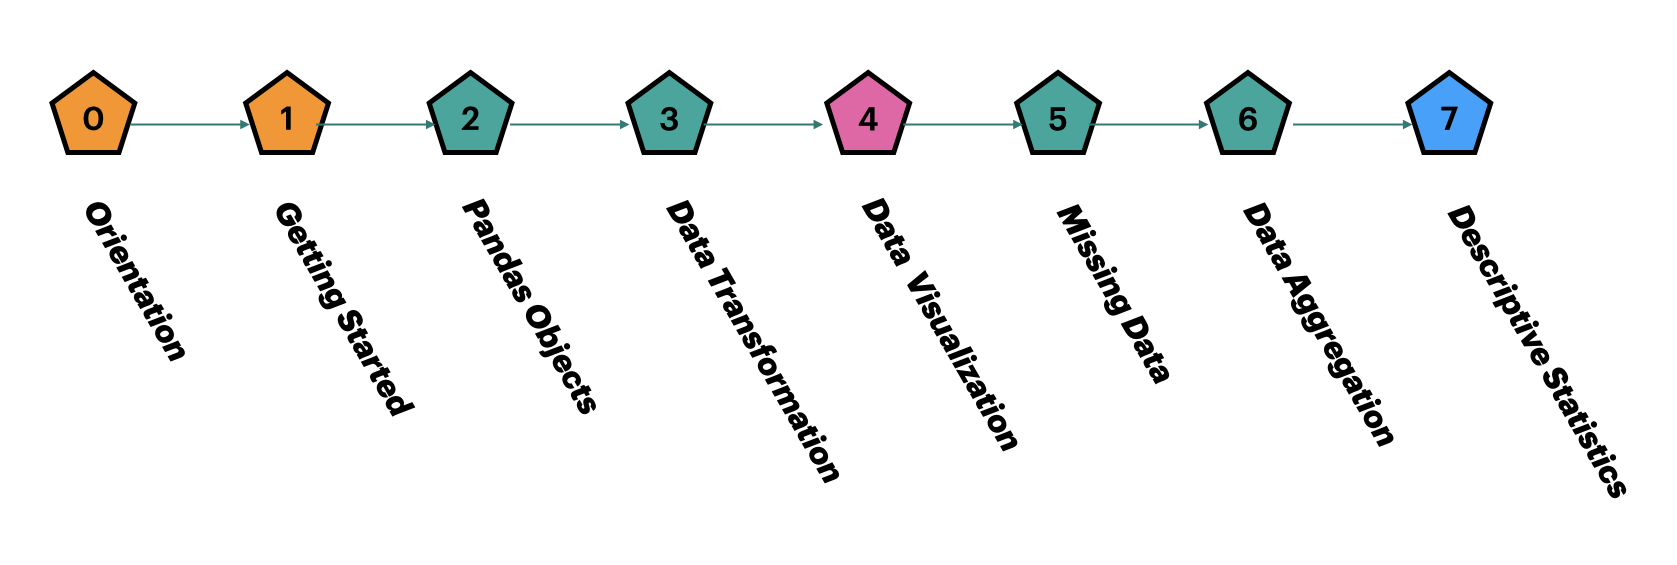
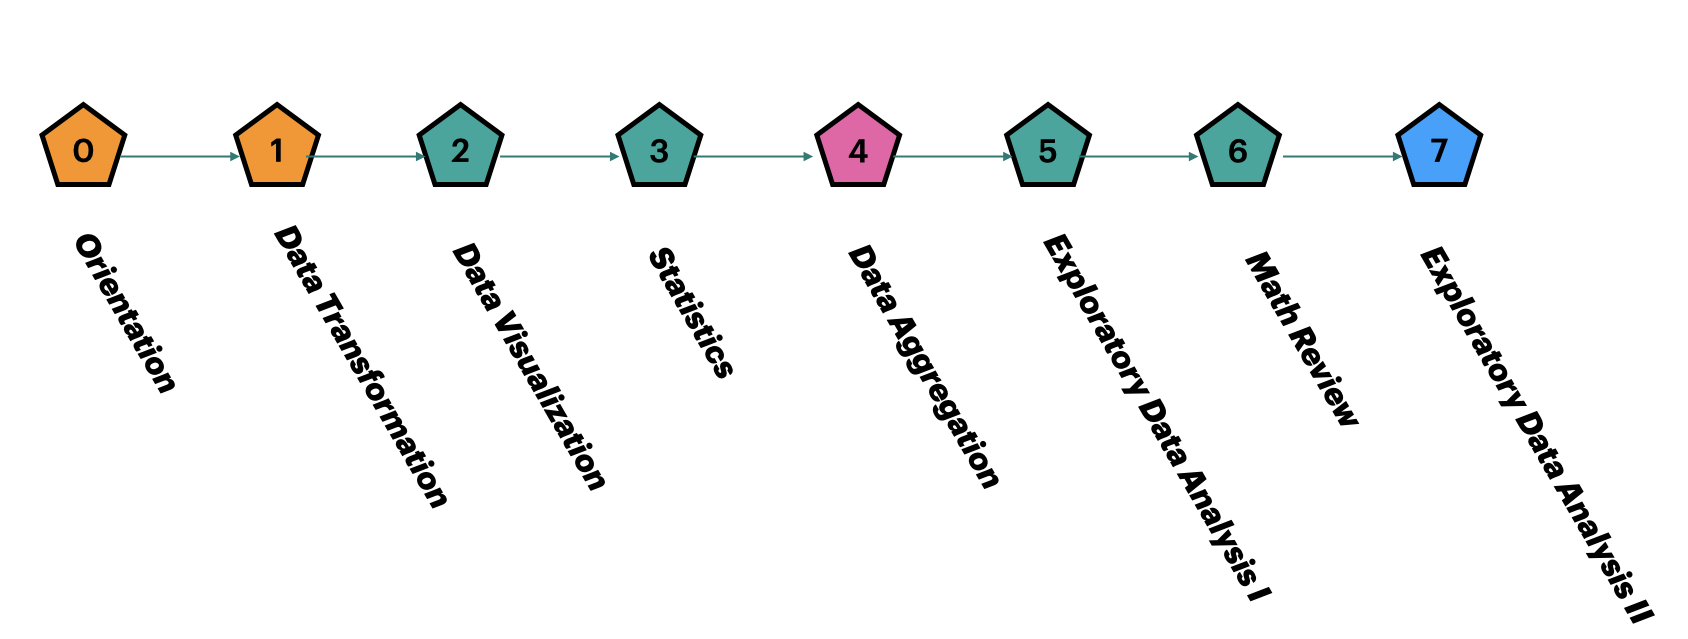
Update documentation

diff --git a/searchindex.js b/searchindex.js
@@ -1,1 +1,1 @@
-Search.setIndex({docnames:["curriculum","faq","intro","learningdesign","tools","videos"],envversion:{"sphinx.domains.c":2,"sphinx.domains.changeset":1,"sphinx.domains.citation":1,"sphinx.domains.cpp":4,"sphinx.domains.index":1,"sphinx.domains.javascript":2,"sphinx.domains.math":2,"sphinx.domains.python":3,"sphinx.domains.rst":2,"sphinx.domains.std":2,"sphinx.ext.intersphinx":1,"sphinxcontrib.bibtex":7,sphinx:56},filenames:["curriculum.md","faq.md","intro.md","learningdesign.md","tools.md","videos.md"],objects:{},objnames:{},objtypes:{},terms:{"0":0,"00":2,"1":[0,5],"14th":2,"2":[0,5],"24":[1,2],"3":[0,1],"30":2,"30th":2,"4":0,"40":1,"5":[0,1],"50":1,"6":0,"7":[0,2],"abstract":2,"boolean":[],"do":[1,3],"float":[],"function":[],"int":[],"new":[1,2],"short":[1,3],"while":[],A:1,As:[],At:1,But:1,If:[1,2],In:0,It:2,No:1,The:[0,1,2,3],There:1,To:[1,2],Will:1,abil:[],about:2,absolut:[1,2],access:[1,2],accompani:[1,3],account:[1,2],activ:[1,2,3],address:1,after:[1,2],aggreg:[0,2],all:[1,2],allow:[],also:1,amount:1,an:[0,1,2,3],analysi:2,ani:1,anonym:1,approxim:[1,2],ar:[0,1,2,3],arrai:[],arrang:0,artifici:[],ask:2,assign:1,athlet:[],atom:[],automat:3,avail:1,averag:[],b:2,base:[1,2,3],basic:[],becaus:[],begin:[2,3],beginn:[1,2],bore:[],borrow:0,bottom:1,branch:[],brief:[],briefli:[],busi:[1,2],button:2,can:[1,2],career:2,certif:1,challeng:[1,3],check:[],choos:1,click:[1,2],close:2,code:[2,3],collabor:3,collect:[],com:[1,2],combin:[1,2],commit:[1,2],common:0,commun:1,complet:1,complex:3,comput:2,concept:3,condit:[],consist:[0,1],consult:2,contain:2,cost:1,coupl:[],cours:[0,1],creat:[1,2],critic:[],curriculum:2,data:[0,1,2],datafram:0,depend:[],descript:0,design:[1,2],develop:3,dictionari:[],differ:1,difficulti:2,disclos:1,doe:1,door:0,dplyr:0,dure:0,each:[1,3],edt:2,effici:[1,2],elementari:[],els:[],email:[1,2],end:[1,3],enrol:1,environ:0,especi:2,essenti:0,establish:1,event:2,excel:[],execut:[],exercis:[1,3],expect:[0,1],explantori:3,explor:[],exploratori:2,extend:[],faq:2,feedback:3,few:[],filter:0,first:[],five:3,formal:1,free:[1,2],frequent:2,fridai:2,from:1,gener:[],get:[0,1,2,5],gmail:[1,2],go:[0,1],goal:[1,2],good:[],grade:[1,3],group:3,groupbi:0,ha:1,habit:[],har:[],have:[1,2],help:[],hierarch:0,honor:[],hour:[1,2],how:1,howev:1,human:[],i:[0,1,2],identifi:[0,1],ii:2,includ:[0,2],index:0,inform:1,inher:3,inquir:[],instruct:[1,2],instructor:[1,3],intellig:[],interact:[1,2,3],interest:2,introduc:0,introduct:[],issu:[],iter:[],jupyt:0,kei:[],languag:[],learn:[1,2],least:2,level:[0,1,2],librari:0,like:1,limit:[],list:[],live:[1,2,3],log:2,login:2,longer:3,look:0,loop:[],machin:2,made:1,main:[],materi:[1,2],math:2,matplotlib:0,meant:3,meetup:2,member:[],method:[],methodolog:0,mind:1,minut:[2,3],miss:0,mission:[],mlearnfab:[1,2],moodl:1,most:[1,2,3],much:1,must:1,mutat:0,my:1,name:1,natur:[],nbsp:0,need:[1,2],notebook:0,number:[],object:[0,5],oct13:2,oct20:2,oct27:2,oct6:2,offer:[1,2],onc:2,onli:[],onlin:[1,2],open:0,oper:[],opportun:1,optim:1,orient:[0,2],other:1,our:[1,2],out:[],over:0,overview:[0,2],own:1,pace:[1,2],page:2,panda:0,part:2,particip:1,path:1,peer:1,per:2,person:1,pii:1,pivot:0,place:1,pleas:2,pledg:[],pm:2,power:2,practic:[1,3],present:3,princip:0,principl:[1,2,3],problem:3,process:[],profession:[1,2],program:[1,2],python:[0,2],pythonfab:3,q:1,queetion:[],question:2,quick:3,quickli:[1,2],r:0,receiv:[1,2],record:1,regist:2,reinforc:3,remain:1,repeat:1,repetit:[],resourc:[1,2],retain:1,reus:[],review:2,rich:[],room:3,routin:[],s:0,scienc:[0,1,2,3],seaborn:0,seat:[],select:0,self:[1,2],sep15:2,sep22:2,sep29:2,sep8:2,septemb:2,sequenti:[],seri:[0,2],session:[0,1,2,3],set:[0,3],seven:1,sever:1,share:1,should:1,show:1,sign:[],simpl:5,simpli:2,site:1,skill:[1,2,3],solv:3,some:[1,3],specif:1,spend:2,standard:[],start:[0,1,2,5],state:[],statement:[],statist:[0,2],strictli:[],string:[],structur:0,studi:0,summar:0,support:1,system:[],t:1,tabl:0,take:1,teach:[1,2],team:3,techniqu:0,test:1,text:3,than:3,thei:3,therefor:1,thi:1,think:2,those:2,through:[],thu:2,thursdai:2,time:1,tool:0,train:[],transform:[0,2],treat:0,tue:2,tupl:[],turn:0,two:0,type:[],ultim:[],unit:[1,3,5],unlik:[1,2],us:0,usual:3,vari:[],varieti:[],variou:0,video:[1,3],view:[1,3],visual:[0,2],vocabulari:0,wa:2,wai:1,want:[1,2],we:[0,1,3],web:1,websit:2,week:[1,2],what:[1,2],which:2,who:[1,2],wish:2,within:1,won:1,workhors:0,write:[],you:[0,1,2],your:1,yourself:[],youtub:1},titles:["<font color=\"maroon\">Curriculum</font>","<font color=\"maroon\">Frequently Asked Questions</font>","<font color=\"maroon\">Welcome</font>","<font color=\"maroon\">Learning Design</font>","<font color=\"maroon\">Tools</font>","<font color=\"maroon\">Videos</font>"],titleterms:{"2022":2,ask:1,blue:0,color:[0,1,2,3,4,5],cours:2,curriculum:0,design:3,fall:2,font:[0,1,2,3,4,5],frequent:1,learn:3,major:0,maroon:[0,1,2,3,4,5],moodl:2,question:1,registr:2,schedul:2,site:2,tool:4,unit:0,video:5,web:2,welcom:2}})
+Search.setIndex({docnames:["curriculum","faq","intro","learningdesign","tools","videos"],envversion:{"sphinx.domains.c":2,"sphinx.domains.changeset":1,"sphinx.domains.citation":1,"sphinx.domains.cpp":4,"sphinx.domains.index":1,"sphinx.domains.javascript":2,"sphinx.domains.math":2,"sphinx.domains.python":3,"sphinx.domains.rst":2,"sphinx.domains.std":2,"sphinx.ext.intersphinx":1,"sphinxcontrib.bibtex":7,sphinx:56},filenames:["curriculum.md","faq.md","intro.md","learningdesign.md","tools.md","videos.md"],objects:{},objnames:{},objtypes:{},terms:{"0":0,"00":2,"1":[0,5],"14th":2,"2":[0,5],"24":[1,2],"3":[0,1],"30":2,"30th":2,"4":0,"40":1,"5":[0,1],"50":1,"6":0,"7":[0,2],"abstract":2,"boolean":[],"do":[1,3],"float":[],"function":[],"int":[],"new":[1,2],"short":[1,3],"while":[],A:1,As:[],At:1,But:1,If:[1,2],In:0,It:2,No:1,The:[0,1,2,3],There:1,To:[1,2],Will:1,abil:[],about:2,absolut:[1,2],access:[1,2],accompani:[1,3],account:[1,2],activ:[1,2,3],address:1,after:[1,2],aggreg:[0,2],all:[1,2],allow:[],also:1,amount:1,an:[0,1,2,3],analysi:[0,2],ani:1,anonym:1,approxim:[1,2],ar:[0,1,2,3],arrai:[],arrang:0,artifici:[],ask:2,assign:1,athlet:[],atom:[],automat:3,avail:1,averag:[],b:2,base:[1,2,3],basic:[],becaus:[],begin:[2,3],beginn:[1,2],bore:[],borrow:0,bottom:1,branch:[],brief:[],briefli:[],busi:[1,2],button:2,can:[1,2],career:2,certif:1,challeng:[1,3],check:[],choos:1,click:[1,2],close:2,code:[2,3],collabor:3,collect:[],com:[1,2],combin:[1,2],commit:[1,2],common:0,commun:1,complet:1,complex:3,comput:2,concept:3,condit:[],consist:[0,1],consult:2,contain:2,cost:1,coupl:[],cours:1,creat:[1,2],critic:[],curriculum:2,data:[0,1,2],datafram:0,depend:[],descript:[],design:[1,2],develop:3,dictionari:[],differ:1,difficulti:2,disclos:1,doe:1,door:0,dplyr:0,dure:[],each:[1,3],edt:2,effici:[1,2],elementari:[],els:[],email:[1,2],end:[1,3],enrol:1,environ:[],especi:2,essenti:0,establish:1,event:2,excel:[],execut:[],exercis:[1,3],expect:[0,1],explantori:3,explor:[],exploratori:[0,2],extend:[],faq:2,feedback:3,few:[],filter:0,first:[],five:3,formal:1,free:[1,2],frequent:2,fridai:2,from:1,gener:[],get:[1,5],gmail:[1,2],go:[0,1],goal:[1,2],good:[],grade:[1,3],group:3,groupbi:0,ha:1,habit:[],har:[],have:[1,2],help:[],hierarch:0,honor:[],hour:[1,2],how:1,howev:1,human:[],i:[0,1,2],identifi:1,ii:[0,2],includ:[0,2],index:0,inform:1,inher:3,inquir:[],instruct:[1,2],instructor:[1,3],intellig:[],interact:[1,2,3],interest:2,introduc:0,introduct:[],issu:[],iter:[],jupyt:[],kei:[],languag:[],learn:[1,2],least:2,level:[0,1,2],librari:0,like:1,limit:[],list:[],live:[1,2,3],log:2,login:2,longer:3,look:0,loop:[],machin:2,made:1,main:[],materi:[1,2],math:[0,2],matplotlib:0,meant:3,meetup:2,member:[],method:[],methodolog:0,mind:1,minut:[2,3],miss:[],mission:[],mlearnfab:[1,2],moodl:1,most:[1,2,3],much:1,must:1,mutat:0,my:1,name:1,natur:[],nbsp:0,need:[1,2],notebook:[],number:[],object:5,oct13:2,oct20:2,oct27:2,oct6:2,offer:[1,2],onc:2,onli:[],onlin:[1,2],open:0,oper:[],opportun:1,optim:1,orient:[0,2],other:1,our:[1,2],out:[],over:0,overview:[0,2],own:1,pace:[1,2],page:2,panda:0,part:2,particip:1,path:1,peer:1,per:2,person:1,pii:1,pivot:0,place:1,pleas:2,pledg:[],pm:2,power:2,practic:[1,3],present:3,princip:0,principl:[1,2,3],problem:3,process:[],profession:[1,2],program:[1,2],python:[0,2],pythonfab:3,q:1,queetion:[],question:2,quick:3,quickli:[1,2],r:0,receiv:[1,2],record:1,regist:2,reinforc:3,remain:1,repeat:1,repetit:[],resourc:[1,2],retain:1,reus:[],review:[0,2],rich:[],room:3,routin:[],s:0,scienc:[0,1,2,3],seaborn:0,seat:[],select:0,self:[1,2],sep15:2,sep22:2,sep29:2,sep8:2,septemb:2,sequenti:[],seri:2,session:[0,1,2,3],set:[0,3],seven:1,sever:1,share:1,should:1,show:1,sign:[],simpl:5,simpli:2,site:1,skill:[1,2,3],solv:3,some:[1,3],specif:1,spend:2,standard:[],start:[1,5],state:[],statement:[],statist:[0,2],strictli:[],string:[],structur:[],studi:0,summar:0,support:1,system:[],t:1,tabl:0,take:1,teach:[1,2],team:3,techniqu:0,test:1,text:3,than:3,thei:3,therefor:1,thi:1,think:2,those:2,through:[],thu:2,thursdai:2,time:1,tool:[],train:[],transform:[0,2],treat:[],tue:2,tupl:[],turn:0,two:0,type:[],ultim:[],unit:[1,3,5],unlik:[1,2],us:[],usual:3,vari:[],varieti:[],variou:0,video:[1,3],view:[1,3],visual:[0,2],vocabulari:0,wa:2,wai:1,want:[1,2],we:[0,1,3],web:1,websit:2,week:[1,2],what:[1,2],which:2,who:[1,2],wish:2,within:1,won:1,workhors:[],write:[],you:[1,2],your:1,yourself:[],youtub:1},titles:["<font color=\"maroon\">Curriculum</font>","<font color=\"maroon\">Frequently Asked Questions</font>","<font color=\"maroon\">Welcome</font>","<font color=\"maroon\">Learning Design</font>","<font color=\"maroon\">Tools</font>","<font color=\"maroon\">Videos</font>"],titleterms:{"2022":2,ask:1,blue:0,color:[0,1,2,3,4,5],cours:2,curriculum:0,design:3,fall:2,font:[0,1,2,3,4,5],frequent:1,learn:3,major:0,maroon:[0,1,2,3,4,5],moodl:2,question:1,registr:2,schedul:2,site:2,tool:4,unit:0,video:5,web:2,welcom:2}})

diff --git a/curriculum.html b/curriculum.html
@@ -280,31 +280,31 @@
 </ul>
 <p>&nbsp;</p>
 <ul class="simple">
-<li><p><strong>Unit 1: Getting Started:</strong> In Unit 1 we will introduce the Jupyter notebook environment and the tools you will be using during the course of study.</p></li>
+<li><p><strong>Unit 1: Data Transformations:</strong> In Unit 1 we will look at common data transformation on the Pandas dataframe. Borrowing the vocabulary of R’s dplyr, the data transformations are: select, filter, arrange, mutate, and summarize.</p></li>
 </ul>
 <p>&nbsp;</p>
 <ul class="simple">
-<li><p><strong>Unit 2: Pandas Objects.</strong> In Unit 2 we introduce the “workhorse” data structure for data science in Python: the Pandas dataframe and Pandas series.</p></li>
+<li><p><strong>Unit 2: Data Visualizations:</strong>  In Unit 2 we introduce the two principal libraries for data visualization in Python: matplotlib and seaborn.</p></li>
 </ul>
 <p>&nbsp;</p>
 <ul class="simple">
-<li><p><strong>Unit 3: Data Transformation.</strong> In Unit 3 we will look at common data transformation on the Pandas dataframe. Borrowing the vocabulary of R’s dplyr, the data transformations are: select, filter, arrange, mutate, and summarize.</p></li>
+<li><p><strong>Unit 3: Statistics</strong></p></li>
 </ul>
 <p>&nbsp;</p>
 <ul class="simple">
-<li><p><strong>Unit 4: Data Visualization.</strong> In Unit 4 we introduce the two principal libraries for data visualization in Python: matplotlib and seaborn.</p></li>
+<li><p><strong>Unit 4: Data Aggregation.</strong></p></li>
 </ul>
 <p>&nbsp;</p>
 <ul class="simple">
-<li><p><strong>Unit 5: Missing Data.</strong> In Unit 5 we introduce techniques for identifying and treating missing data.</p></li>
+<li><p><strong>Unit 5: Exploratory Data Analysis I.</strong></p></li>
 </ul>
 <p>&nbsp;</p>
 <ul class="simple">
-<li><p><strong>Unit 6: Data Aggregation.</strong> In Unit 6 we study various techniques for aggregating and summarizing data. The techniques include groupby, pivot tables, and hierarchical indexing.</p></li>
+<li><p><strong>Unit 6: Math Review</strong> In Unit 6 we study various techniques for aggregating and summarizing data. The techniques include groupby, pivot tables, and hierarchical indexing.</p></li>
 </ul>
 <p>&nbsp;</p>
 <ul class="simple">
-<li><p><strong>Unit 7: Descriptive Statistics.</strong> In Unit 7 we turn to statistics, opening the door to an essential set of methodologies in data science.</p></li>
+<li><p><strong>Unit 7:Exploratory Data Analysis II</strong> In Unit 7 we turn to statistics, opening the door to an essential set of methodologies in data science.</p></li>
 </ul>
 </div>
 </div>

diff --git a/intro.html b/intro.html
@@ -319,11 +319,11 @@
 <p>Data Science Level I is a 7 week course. It begins in September 2022.</p>
 <ol class="simple">
 <li><p><strong>Orientation</strong> Thu, Sep8, 7:00 PM EDT.</p></li>
-<li><p><strong>Getting Started and Data Transformations</strong> Thu, Sep15, 7:00 PM EDT</p></li>
+<li><p><strong>Data Transformations</strong> Thu, Sep15, 7:00 PM EDT</p></li>
 <li><p><strong>Data Visualizations</strong> Thu, Sep22, 7:00 PM EDT</p></li>
 <li><p><strong>Statistics</strong> Thu, Sep29, 7:00 PM EDT</p></li>
-<li><p><strong>Exploratory Data Analysis I</strong> Thu, Oct6, 7:00 PM EDT</p></li>
-<li><p><strong>Data Aggregation</strong> Tue, Oct13, 7:00 PM EDT</p></li>
+<li><p><strong>Data Aggregation</strong> Thu, Oct6, 7:00 PM EDT</p></li>
+<li><p><strong>Exploratory Data Analysis I</strong> Tue, Oct13, 7:00 PM EDT</p></li>
 <li><p><strong>Math Review</strong> Thu, Oct20, 7:00 PM EDT</p></li>
 <li><p><strong>Exploratory Data Analysis II</strong> Thu, Oct27, 7:00 PM EDT</p></li>
 </ol>

diff --git a/_sources/curriculum.md b/_sources/curriculum.md
@@ -19,43 +19,43 @@ The **Data Science, Level I** consists of 7 Units and an Overview.
 <p>&nbsp;</p>
 
 
-- **Unit 1: Getting Started:** In Unit 1 we will introduce the Jupyter notebook environment and the tools you will be using during the course of study. 
-
-
-<p>&nbsp;</p>
-
-
-- **Unit 2: Pandas Objects.** In Unit 2 we introduce the "workhorse" data structure for data science in Python: the Pandas dataframe and Pandas series.
+- **Unit 1: Data Transformations:** In Unit 1 we will look at common data transformation on the Pandas dataframe. Borrowing the vocabulary of R's dplyr, the data transformations are: select, filter, arrange, mutate, and summarize.
 
 
 
 <p>&nbsp;</p>
 
 
+- **Unit 2: Data Visualizations:**  In Unit 2 we introduce the two principal libraries for data visualization in Python: matplotlib and seaborn.
 
-- **Unit 3: Data Transformation.** In Unit 3 we will look at common data transformation on the Pandas dataframe. Borrowing the vocabulary of R's dplyr, the data transformations are: select, filter, arrange, mutate, and summarize.
-
-
-<p>&nbsp;</p>
-
-
-- **Unit 4: Data Visualization.** In Unit 4 we introduce the two principal libraries for data visualization in Python: matplotlib and seaborn.
 
 
 <p>&nbsp;</p>
 
 
-- **Unit 5: Missing Data.** In Unit 5 we introduce techniques for identifying and treating missing data.
+
+- **Unit 3: Statistics**  
 
 
 <p>&nbsp;</p>
 
 
-- **Unit 6: Data Aggregation.** In Unit 6 we study various techniques for aggregating and summarizing data. The techniques include groupby, pivot tables, and hierarchical indexing.
+- **Unit 4: Data Aggregation.**  
+
+<p>&nbsp;</p>
+
+
+- **Unit 5: Exploratory Data Analysis I.**  
 
 
 <p>&nbsp;</p>
 
 
-- **Unit 7: Descriptive Statistics.** In Unit 7 we turn to statistics, opening the door to an essential set of methodologies in data science.
+- **Unit 6: Math Review** In Unit 6 we study various techniques for aggregating and summarizing data. The techniques include groupby, pivot tables, and hierarchical indexing.
+
+
+<p>&nbsp;</p>
+
+
+- **Unit 7:Exploratory Data Analysis II** In Unit 7 we turn to statistics, opening the door to an essential set of methodologies in data science.
 

diff --git a/_sources/intro.md b/_sources/intro.md
@@ -10,11 +10,11 @@ Unlike most offerings, the course combines self-paced material with live interac
 Data Science Level I is a 7 week course. It begins in September 2022.  
 
 0. **Orientation** Thu, Sep8, 7:00 PM EDT. 
-1. **Getting Started and Data Transformations** Thu, Sep15, 7:00 PM EDT
+1. **Data Transformations** Thu, Sep15, 7:00 PM EDT
 2. **Data Visualizations** Thu, Sep22, 7:00 PM EDT
 3. **Statistics** Thu, Sep29, 7:00 PM EDT
-4. **Exploratory Data Analysis I** Thu, Oct6, 7:00 PM EDT
-5. **Data Aggregation** Tue, Oct13, 7:00 PM EDT
+4. **Data Aggregation** Thu, Oct6, 7:00 PM EDT
+5. **Exploratory Data Analysis I** Tue, Oct13, 7:00 PM EDT
 6. **Math Review** Thu, Oct20, 7:00 PM EDT
 7. **Exploratory Data Analysis II** Thu, Oct27, 7:00 PM EDT
 
